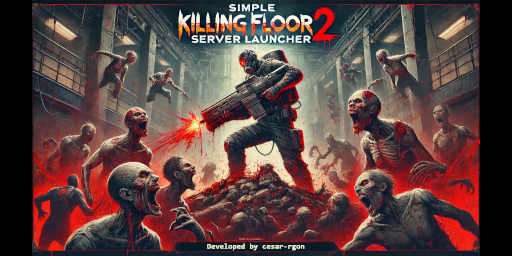
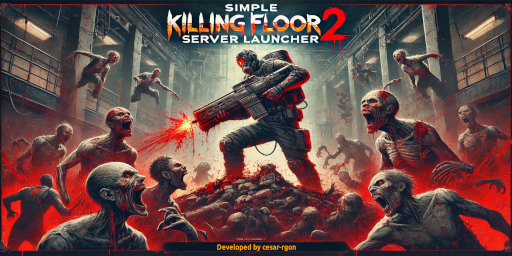
Visual changes in main screen

diff --git a/src/main/java/stories/maincontent/MainContentController.java b/src/main/java/stories/maincontent/MainContentController.java
@@ -480,7 +480,7 @@ public class MainContentController implements Initializable {
                     }
                     mapPreview = new ImageView(image);
                     mapPreview.setPreserveRatio(false);
-                    mapPreview.setFitWidth(440);
+                    mapPreview.setFitWidth(375);
                     mapPreview.setFitHeight(220);
                 } catch (Exception e) {
                     logger.error(e.getMessage(), e);
@@ -508,7 +508,7 @@ public class MainContentController implements Initializable {
 
                 ImageView darkPanel = new ImageView(new Image("images/darkPanel.png"));
                 darkPanel.setPreserveRatio(false);
-                darkPanel.setFitWidth(440);
+                darkPanel.setFitWidth(375);
                 darkPanel.setFitHeight(40);
                 darkPanel.setOpacity(0.7);
 
